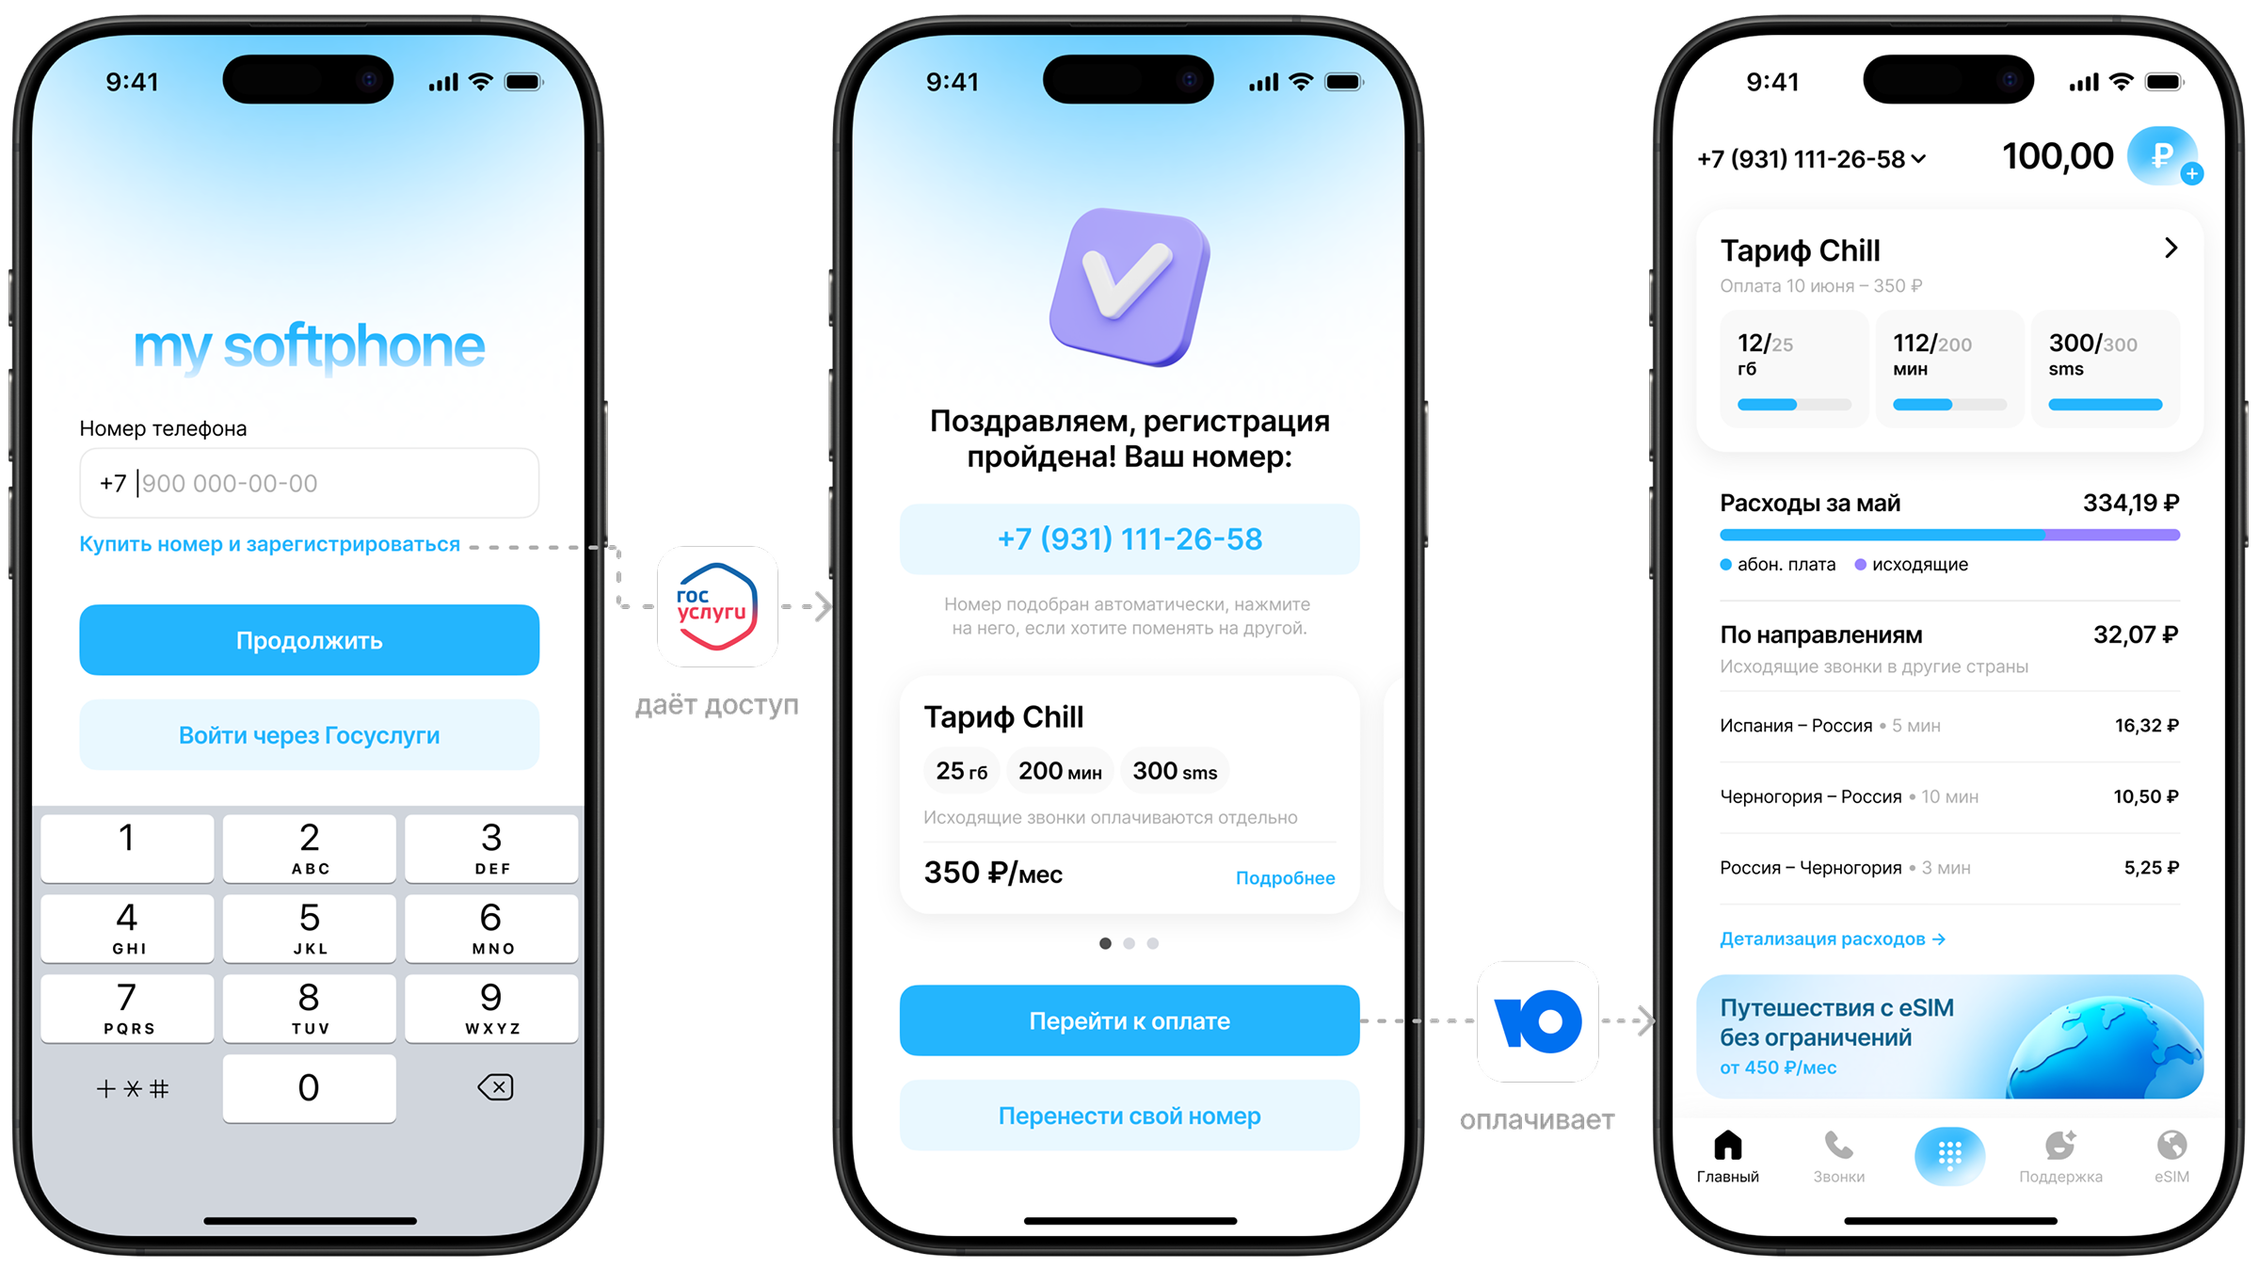
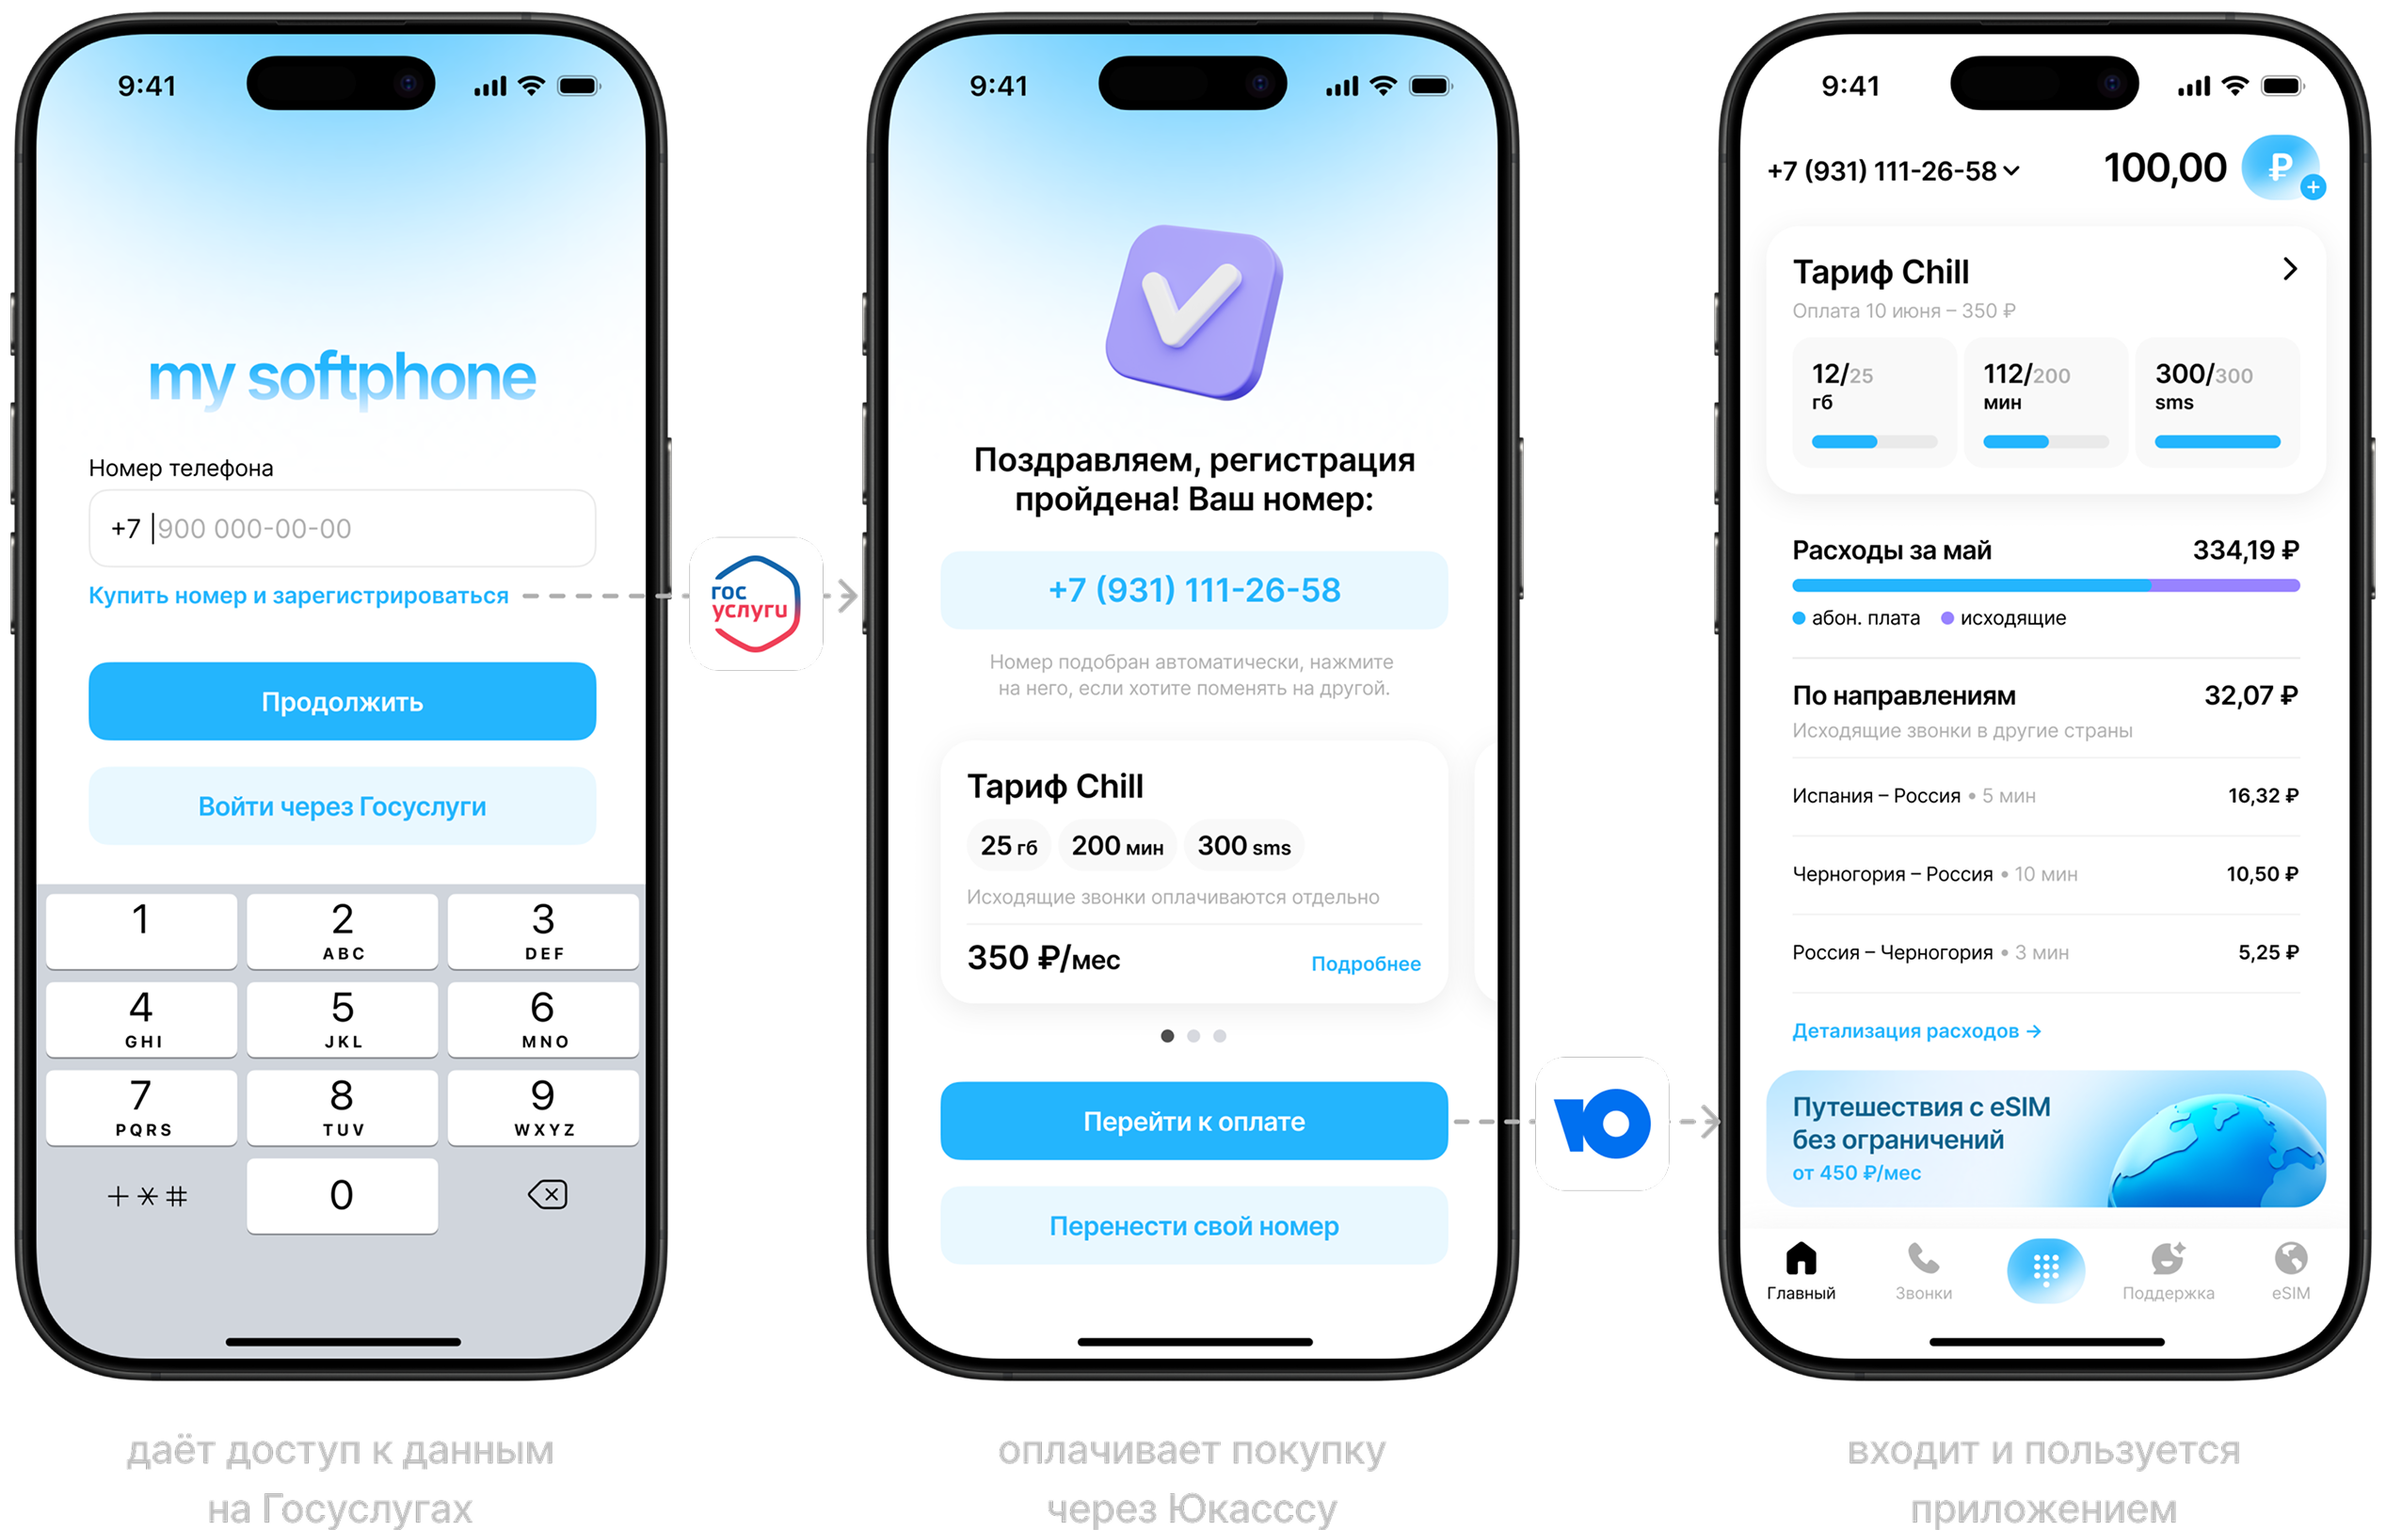
Refine MCN case image layout

diff --git a/src/components/case-study-page.tsx b/src/components/case-study-page.tsx
@@ -7,9 +7,9 @@ import { useEffect, useRef, useState } from "react";
 
 const assets = {
   heart: "/figma/heart.svg",
-  phone1: "/figma/Main/phone%201.png",
-  phone2: "/figma/Main/phone%202.png",
-  phone3: "/figma/Main/phone%203.png",
+  phone1: "/figma/Main/phone%201.png?v=20260621",
+  phone2: "/figma/Main/phone%202.png?v=20260621",
+  phone3: "/figma/Main/phone%203.png?v=20260621",
   arrowForward: "/figma/Main/arrow_forward.svg",
   chartSmall: "/figma/case-chart-small.png",
   chartBig: "/figma/case-chart-big.png",
@@ -20,12 +20,18 @@ const assets = {
   competitorWhatsapp: "/figma/case-competitor-whatsapp.png",
   competitorOpenphone: "/figma/case-competitor-openphone.png",
   userflow: "/figma/case-userflow.png",
-  solutionSuccess: "/figma/case-solution-success.png?v=20260405",
-  solutionCost: "/figma/case-solution-cost.png?v=20260405",
-  solutionError: "/figma/case-solution-error.png?v=20260503"
+  solutionSuccess: "/figma/case-solution-success.png?v=20260621",
+  solutionCost: "/figma/case-solution-cost.png?v=20260621",
+  solutionError: "/figma/case-solution-error.png?v=20260621"
 };
 
-const workStages = ["Дискавери", "Гипотезы", "Проектирование", "Тестирование", "Передача в разработку"];
+const workStages = [
+  { label: "Дискавери", href: "#discovery" },
+  { label: "Гипотезы", href: "#hypotheses" },
+  { label: "Проектирование", href: "#design" },
+  { label: "Тестирование", href: "#solution" },
+  { label: "Передача в разработку", href: "#results" }
+];
 
 export function CaseStudyPage() {
   const [hideTopbar, setHideTopbar] = useState(false);
@@ -387,7 +393,7 @@ export function CaseStudyPage() {
           id="overview"
           data-section-anchor="overview"
           variants={item}
-          className="scroll-mt-[90px] flex flex-col gap-8 sm:gap-8"
+          className="mb-[-18px] scroll-mt-[90px] flex flex-col gap-8 sm:gap-8 md:mb-[-68px]"
         >
           <div className="flex flex-col gap-4 text-white">
             <div className="flex flex-col gap-1">
@@ -520,10 +526,15 @@ export function CaseStudyPage() {
             <h3 className="text-[24px] font-semibold leading-[32px]">Этапы работы</h3>
             <div className="flex flex-wrap items-center gap-1">
               {workStages.map((stage, index) => (
-                <div key={stage} className="flex items-center gap-1">
-                  <span className="rounded-full bg-[rgba(255,255,255,0.05)] px-3 py-1 text-[16px] leading-[160%] text-[#e6e6e6] shadow-[0px_4px_100px_0px_rgba(0,0,0,0.25)]">
-                    {stage}
-                  </span>
+                <div key={stage.label} className="flex items-center gap-1">
+                  <motion.a
+                    href={stage.href}
+                    whileHover={canHover ? { backgroundColor: "rgba(255,255,255,0.08)", scale: 1.05 } : undefined}
+                    transition={{ duration: 0.2, ease: "easeOut" }}
+                    className="rounded-full bg-[rgba(255,255,255,0.05)] px-3 py-1 text-[16px] leading-[160%] text-[#e6e6e6] shadow-[0px_4px_100px_0px_rgba(0,0,0,0.25)]"
+                  >
+                    {stage.label}
+                  </motion.a>
                   {index < workStages.length - 1 ? (
                     <Image alt="" src={assets.arrowForward} width={16} height={16} className="h-4 w-4" />
                   ) : null}
@@ -599,7 +610,7 @@ export function CaseStudyPage() {
               </p>
             </div>
 
-            <div className="-mx-4 bg-[#1c1c1c] py-6 sm:mx-0">
+            <div className="-mx-4 overflow-hidden rounded-[12px] bg-[#1c1c1c] py-6 sm:mx-0">
               <div className="mx-auto w-full max-w-[427px] px-4 sm:px-0">
                 <Image
                   alt=""
@@ -625,7 +636,7 @@ export function CaseStudyPage() {
               </p>
             </div>
 
-            <div className="-mx-4 bg-[#1c1c1c] py-6 sm:mx-0">
+            <div className="-mx-4 overflow-hidden rounded-[12px] bg-[#1c1c1c] py-6 sm:mx-0">
               <div className="mx-auto flex w-full max-w-[427px] flex-col gap-4 px-4 sm:px-0">
                 <Image
                   alt=""
@@ -654,7 +665,7 @@ export function CaseStudyPage() {
               где важна немедленная доступность связи и интернета.
             </p>
 
-            <div className="flex flex-col gap-4">
+            <div id="hypotheses" className="flex scroll-mt-[90px] flex-col gap-4">
               <h3 className="text-[24px] font-semibold leading-[32px]">Анализ конкурентов</h3>
               <p className="text-[18px] leading-[160%]">
                 В ходе discovery я также изучила аналогичные продукты, в которых есть звонки.
@@ -663,20 +674,20 @@ export function CaseStudyPage() {
               </p>
             </div>
 
-            <div className="-mx-4 bg-[#1c1c1c] py-6 sm:mx-0">
-              <div className="mx-auto w-full max-w-[600px] px-4 sm:px-0">
+            <div className="w-full">
+              <div className="mx-auto w-full max-w-[800px]">
                 <Image
                   alt=""
                   src={assets.competitorWhatsapp}
                   width={600}
                   height={300}
-                  sizes="(max-width: 640px) calc(100vw - 32px), 600px"
+                  sizes="(max-width: 640px) calc(100vw - 32px), 800px"
                   className="h-auto w-full object-contain"
                   loading="lazy"
                 />
               </div>
-              <p className="mt-4 px-4 text-center text-[14px] leading-[1.4] text-[#afafaf] sm:px-0">
-                WhatsApp (регистрация – выбор контакта – звонок)
+              <p className="mt-4 text-center text-[14px] leading-[1.4] text-[#afafaf]">
+                WhatsApp: регистрация → выбор контакта → звонок
               </p>
             </div>
 
@@ -686,20 +697,20 @@ export function CaseStudyPage() {
               пользователю необходима понятная и непрерывная обратная связь о его прогрессе и статусе.
             </p>
 
-            <div className="-mx-4 bg-[#1c1c1c] py-6 sm:mx-0">
-              <div className="mx-auto w-full max-w-[754px] px-4 sm:px-0">
+            <div className="w-full">
+              <div className="mx-auto w-full max-w-[800px]">
                 <Image
                   alt=""
                   src={assets.competitorOpenphone}
                   width={754}
                   height={300}
-                  sizes="(max-width: 640px) calc(100vw - 32px), 754px"
+                  sizes="(max-width: 640px) calc(100vw - 32px), 800px"
                   className="h-auto w-full object-contain"
                   loading="lazy"
                 />
               </div>
-              <p className="mt-4 px-4 text-center text-[14px] leading-[1.4] text-[#afafaf] sm:px-0">
-                Open Phone (выбор номера – регистрация – покупка – звонок)
+              <p className="mt-4 text-center text-[14px] leading-[1.4] text-[#afafaf]">
+                OpenPhone: выбор номера → регистрация → покупка → звонок
               </p>
             </div>
 
@@ -767,7 +778,7 @@ export function CaseStudyPage() {
               </p>
             </div>
 
-            <div className="relative left-1/2 w-screen -translate-x-1/2 bg-[#1c1c1c] py-6">
+            <div className="relative left-1/2 w-screen -translate-x-1/2 bg-[#1c1c1c] py-8">
               <div className="mx-auto w-full max-w-[1000px] px-4 sm:px-0">
                 <button
                   type="button"
@@ -787,12 +798,12 @@ export function CaseStudyPage() {
                 </button>
               </div>
               <p className="mt-4 px-4 text-center text-[14px] leading-[1.4] text-[#9e9e9e] sm:px-0">
-                UserFlow сценария звонка (чтобы увеличить нажмите на картинку).
+                User Flow сценария первого звонка
               </p>
             </div>
 
             <ul className="list-disc space-y-2 pl-6 text-[18px] leading-[160%]">
-              <li>от первого запуска приложения до звонка — 4–5 шагов вместо 8–10</li>
+              <li>путь до первого звонка сократился с 8 до 3 шагов</li>
               <li>
                 стали показывать стоимость звонка ещё до вызова, а после ключевых шагов — success screen,
                 чтобы убрать тревогу и неопределённость
